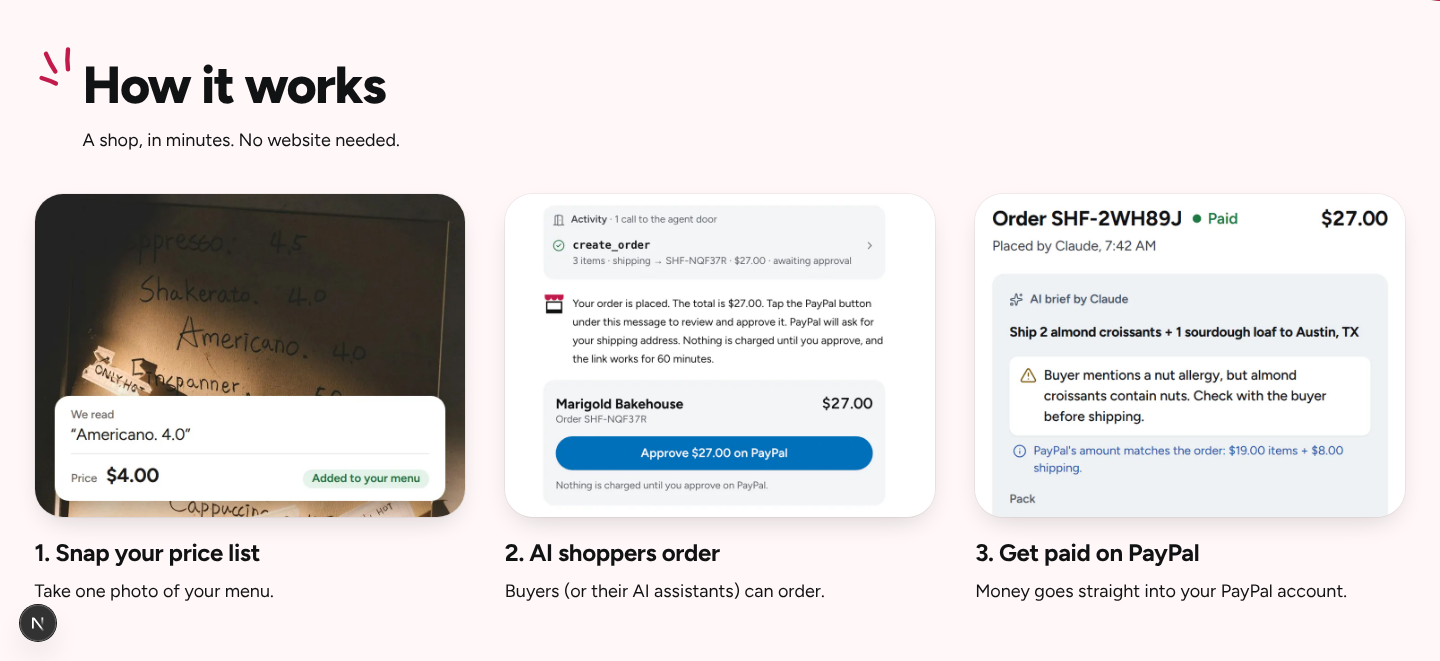
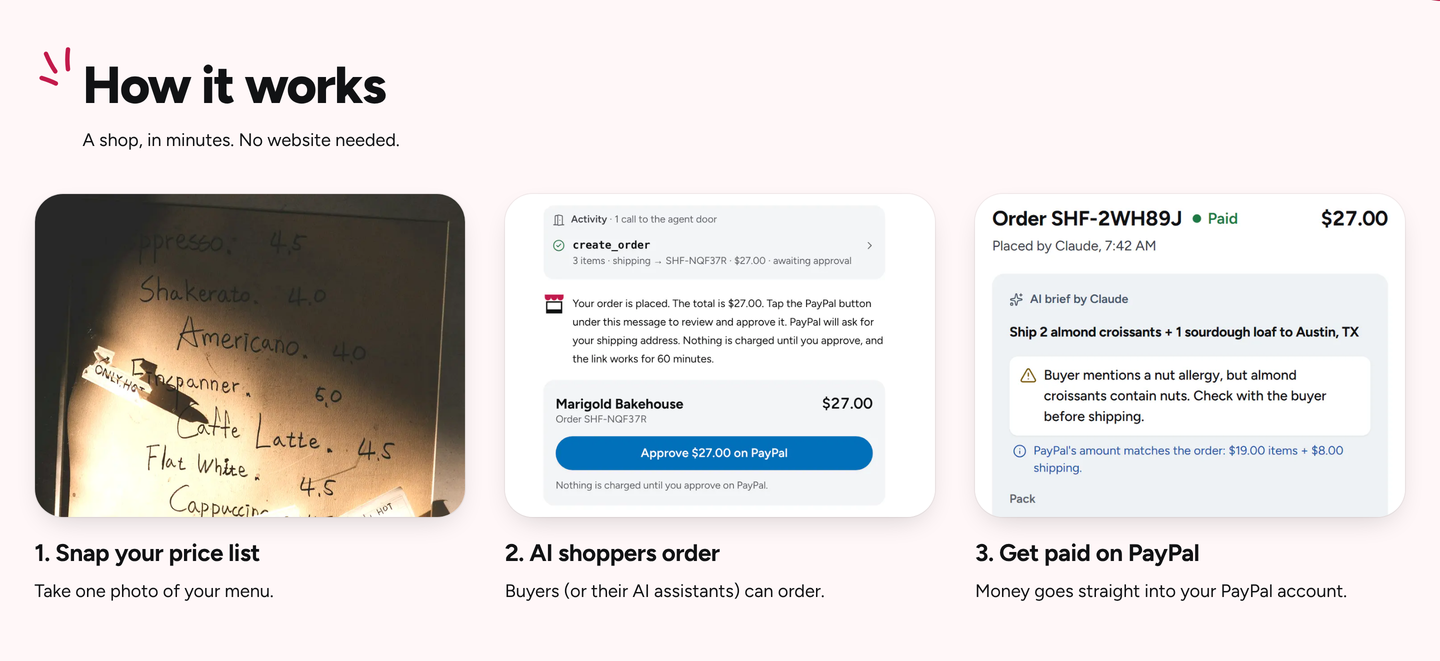
Home: step 1 shows the paper menu photo alone (no invented app card), brighter crops, hero photo loads eagerly

diff --git a/src/components/landing/HowItWorks.tsx b/src/components/landing/HowItWorks.tsx
@@ -4,16 +4,17 @@ import { TextLink } from '@/components/ui/text-link';
 import { AccentMarks } from './art';
 
 /**
- * Each step shows Shelfie itself: one focal region of the real app on the demo shop, cropped about 480 CSS px wide
- * so its text stays readable (960×720 WebP in public/landing/, made at device scale 2; see docs/ASSETS.md). Step 1 is
- * a real photo of a handwritten price list under a card of Shelfie's reading. Same 4:3 frame for all three.
+ * Step 1 is the seller's side of the camera: a real photo of a handwritten price list (Unsplash License; see
+ * docs/ASSETS.md), with nothing drawn over it. Steps 2 and 3 show Shelfie itself: one focal region of the real app on
+ * the demo shop, cropped about 480 CSS px wide so its text stays readable. All are 960×720 WebP in public/landing/,
+ * in the same 4:3 frame.
  */
 const STEPS: { title: string; body: string; image: string; alt: string }[] = [
   {
     title: '1. Snap your price list',
     body: 'Take one photo of your menu.',
     image: '/landing/step-read.webp',
-    alt: 'A handwritten café price list on paper, and Shelfie’s reading of one line, “Americano. 4.0”: price $4.00, added to the menu.',
+    alt: 'A handwritten café price list on paper: Espresso 4.5, Shakerato 4.0, Americano 4.0, Caffe Latte 4.5.',
   },
   {
     title: '2. AI shoppers order',

diff --git a/src/components/landing/HeroChain.tsx b/src/components/landing/HeroChain.tsx
@@ -82,7 +82,7 @@ function PaperCard() {
       <AccentMarks className="absolute -top-7 right-3 z-10 size-8 -scale-x-100 text-accent" />
       <div className="rounded-sm bg-surface p-1.5 shadow-lg">
         <div className="relative aspect-[3/4] overflow-hidden rounded-xs bg-paper">
-          <Image src={PAPER_MENU} alt="" fill unoptimized className="object-cover" />
+          <Image src={PAPER_MENU} alt="" fill unoptimized loading="eager" className="object-cover" />
         </div>
       </div>
     </div>
@@ -183,7 +183,7 @@ const TILE = 'relative flex aspect-[4/5] flex-col items-center justify-center ov
 const PHONE_TILES = [
   <div key="paper" className="-rotate-3 rounded-xs bg-surface p-1 shadow-md">
     <div className="relative aspect-[4/5] overflow-hidden rounded-xs bg-paper">
-      <Image src={PAPER_MENU} alt="" fill unoptimized className="object-cover" />
+      <Image src={PAPER_MENU} alt="" fill unoptimized loading="eager" className="object-cover" />
     </div>
   </div>,
   <div key="shop" className={cn(TILE, 'justify-start gap-0.5 p-1')}>

diff --git a/docs/DESIGN.md b/docs/DESIGN.md
@@ -225,12 +225,12 @@ Built from the owner's reference image (run 6), and the one place the rules abov
 
 - **The header (`BandHeader`):** a 64 px bar (56 px on phones) in the bands' `max-w-site` and gutter; logo 28 px; How it works, FAQ and Help at 15 px medium ink with a short underline on hover and a full accent underline for the section in view (`aria-current`); Log in as text and a 40 px pomegranate "Add your shop", the only filled element. Once the page scrolls it turns translucent near-white with a blur, a hairline and a soft shadow (an opacity cross-fade). Phones: logo, Log in, a compact Add your shop and a menu button whose lines fold into a cross; the menu is a full-width panel with large rows and a full-width Add your shop, scroll-locked, closed by Esc, a link or a press outside, focus moved in and back.
 - **Bands, each a different place:** the sticky near-white header (`BandHeader`), the hero photo with its pomegranate wave, the blush How it works band, the solid pomegranate FAQ with deeper rows, the cocoa photo band, the charcoal footer. Every band uses one padding (`py-band`) and one gutter (`px-band-gutter`) inside `max-w-site`.
-- **Palette:** blush `#fffcfd`, `#fff7f8`, `#feeaed` and `#ffced6` are Radix Colors Ruby 1, 2, 3 and 5. Pomegranate 600 to 800 match Tailwind rose 700 to 900 in lightness. Charcoal `#292524` and its soft text `#d6d3d1` are Tailwind stone 800 and 300. Cocoa is `#4a2d1f`, and the paper menu `#f6ecd9`.
+- **Palette:** blush `#fffcfd`, `#fff7f8`, `#feeaed` and `#ffced6` are Radix Colors Ruby 1, 2, 3 and 5. Pomegranate 600 to 800 match Tailwind rose 700 to 900 in lightness. Charcoal `#292524` and its soft text `#d6d3d1` are Tailwind stone 800 and 300. Cocoa is `#4a2d1f`. `paper` (`#f6ecd9`) is only the placeholder behind the paper menu photo while it loads.
 - **Text over photos** is checked from the pixels behind it (axe can't read images): the hero's veil and the closing band's fade exist for this, so re-measure after changing either or the photo.
 - **Motion:** the hero chain (`landing/HeroChain.tsx`) lands in turn when it comes into view, replays when the visitor returns, and never loops; under reduced motion it shows at once. Every beat carries `data-entrance` and `data-chain-beat`.
 - **Type:** body at least 16 px on phones and 18 px from 1280 px, meta at least 14 px. Figtree is the only typeface.
-- **The paper menu is a real photograph:** the hero chain's first card and How it works step 1 show a real handwritten café price list (`public/landing/paper-menu.webp`, credited in `docs/ASSETS.md`), never a drawn or generated menu. The card is the photo in a 6 px white mat (4 px on the phone tile), tilted -3°, with the accent marks above it; its caption speaks of "your menu" and never names the photo as a seller's. Step 1 lays a white "We read" card (Shelfie's reading of one line) over the lower part of the same photo.
-- **Icons and step images:** How it works shows no icons: each step has one focal region of Shelfie itself, cropped about 480 CSS px wide so its text reads at every width (`public/landing/step-*.webp`, 960×720, 4:3, rounded `rounded-2xl` frame with `shadow-md`, lazy `<img>` with width and height), stacked above its text up to `lg` (at most `max-w-md`) and in three columns from `lg`, since three columns at `md` shrink the frames below the phone's. Re-shoot them from the app if those screens change. `landing/art.tsx` keeps the accent marks and the hero's assistant mark: a neutral speech bubble and spark, never an AI company's mark; PayPal appears as blue text.
+- **The paper menu is a real photograph:** the hero chain's first card and How it works step 1 show a real handwritten café price list (`public/landing/paper-menu.webp`, credited in `docs/ASSETS.md`), never a drawn or generated menu. The card is the photo in a 6 px white mat (4 px on the phone tile), tilted -3°, with the accent marks above it; its caption speaks of "your menu" and never names the photo as a seller's. Step 1 is the same photo alone (`step-read.webp`), with no drawn UI over it: no invented app card. The hero photo loads eagerly (it is above the fold).
+- **Icons and step images:** How it works shows no icons: step 1 is the real paper menu photo, and steps 2 and 3 each have one focal region of Shelfie itself, cropped about 480 CSS px wide so its text reads at every width (`public/landing/step-*.webp`, 960×720, 4:3, rounded `rounded-2xl` frame with `shadow-md`, lazy `<img>` with width and height), stacked above its text up to `lg` (at most `max-w-md`) and in three columns from `lg`, since three columns at `md` shrink the frames below the phone's. Re-shoot them from the app if those screens change. `landing/art.tsx` keeps the accent marks and the hero's assistant mark: a neutral speech bubble and spark, never an AI company's mark; PayPal appears as blue text.
 - **Sound switch:** the footer's control reads `Sound on` / `Sound off` beside its speaker icon, in an outlined 44 px pill; its accessible name is `Sound` with `aria-pressed`.
 - **Home chat:** a round pomegranate launcher at the bottom right (above `env(safe-area-inset-bottom)`) with Shelfie's own bot drawing (`landing/BotMark.tsx`: white head, ink eyes, blush cheeks and antenna; never a stock icon or an AI company's mark) and an ink unread dot until first opened. It opens the real buyer console for the example shop: a 380 x 560 panel anchored above it from 1024 px (auto-opens once per session after 4 s, never taking focus, and only on screens at least 700 px tall; its height stops short of the sticky header), a bottom sheet below 1024 px, where a speech bubble ("Hi! Want to try ordering?") replaces the auto-open. The footer gains bottom padding on the home page so its last row (the Sound switch) ends above the launcher. Entrances are CSS opacity/transform only.
 

diff --git a/docs/ASSETS.md b/docs/ASSETS.md
@@ -261,7 +261,7 @@ All under the [Pexels License](https://www.pexels.com/license/), resized and com
 
 ## How it works step images (`public/landing/`)
 
-Our own screenshots of Shelfie, not third-party assets, except the photo in step 1: `step-read.webp` (the handwritten price list photo below, with a white "We read" card in Figtree showing Shelfie's reading of its Americano line, $4.00, rendered from HTML with Playwright at device scale 2), `step-order.webp` (the demo shop's assistant panel: its create_order call, reply and Approve on PayPal card, replayed turns; the "Tell me once you've approved" line is cut out) and `step-paid.webp` (the seller's paid order header and its AI brief). Taken with Playwright at device scale 2 and a 500 px viewport on the e2e database (seeded demo shop, labelled fixture orders, fake PayPal ids), cropped to one focal region of about 480 CSS px and saved as 960×720 WebP (q80) with sharp. Food photos inside them are the demo shop's (credited above). No owner links, tokens or emails are in frame.
+Our own screenshots of Shelfie, not third-party assets, except step 1: `step-read.webp` is the handwritten price list photo below, alone. Then `step-order.webp` (the demo shop's assistant panel: its create_order call, reply and Approve on PayPal card, replayed turns; the "Tell me once you've approved" line is cut out) and `step-paid.webp` (the seller's paid order header and its AI brief). Taken with Playwright at device scale 2 and a 500 px viewport on the e2e database (seeded demo shop, labelled fixture orders, fake PayPal ids), cropped to one focal region of about 480 CSS px and saved as 960×720 WebP (q80) with sharp. Food photos inside them are the demo shop's (credited above). No owner links, tokens or emails are in frame.
 
 ## Handwritten price list photo (`public/landing/paper-menu.webp`, step 1, video)
 
@@ -269,7 +269,7 @@ A real photograph, chosen in run 8 over five other Pexels/Unsplash candidates (`
 
 | File | Shows | Source | Processing | Licence |
 |---|---|---|---|---|
-| `public/landing/paper-menu.webp` (480×640) | A handwritten coffee price list in black ink on cream paper (Americano 4.0, Caffe Latte 4.5, ...) | Photo by Bundo Kim on Unsplash, https://unsplash.com/photos/white-printer-paper-CWxfAzPs2T8 (file `images.unsplash.com/photo-1557633405-a29f480936d5`) | Cropped 3:4 to the right-hand sheet, CLAHE to even out the hard window light, brightness +15%, WebP q74 | [Unsplash License](https://unsplash.com/license) |
-| `public/landing/step-read.webp` (960×720) | The same sheet, under Shelfie's "We read" card | Same photo | Cropped 4:3, same toning, card rendered on top, WebP q80 | Unsplash License (photo); the card is ours |
+| `public/landing/paper-menu.webp` (480×640) | A handwritten coffee price list in black ink on cream paper (Americano 4.0, Caffe Latte 4.5, ...) | Photo by Bundo Kim on Unsplash, https://unsplash.com/photos/white-printer-paper-CWxfAzPs2T8 (file `images.unsplash.com/photo-1557633405-a29f480936d5`) | Cropped 3:4 to the right-hand sheet, CLAHE to even out the hard window light, brightness +35%, WebP q74 | [Unsplash License](https://unsplash.com/license) |
+| `public/landing/step-read.webp` (960×720) | The same sheet, wider | Same photo | Cropped 4:3, same toning, nothing drawn on top, WebP q74 | Unsplash License |
 | `video/project/assets/paper-menu.jpg` (1920×1080) | Both sheets of the same list, full frame for the demo video | Same photo | Cropped 16:9, gentler CLAHE, JPEG q84 | Unsplash License |
 

diff --git a/docs/judge/menu-photo-r8.md b/docs/judge/menu-photo-r8.md
@@ -15,4 +15,6 @@ Searched: Pexels "handwritten menu", "handwritten price list", "paper menu", "ha
 
 Pexels photographer names for 2 and 4 to 6 are as shown on their pages' download names; only the pick's licence page was checked in full.
 
-**Pick: 1 (Bundo Kim).** It is the closest to the reference's qualities: a casual, real, hand-written list in black ink on cream paper with a price beside every item, in English, with nothing that names the café. It is shot at an angle in a dark room rather than from above, and it has no doodles; the hard window light is evened out with CLAHE so the ink reads at the hero card's ~230 px. Crops: 3:4 on the right-hand sheet for the hero card (`public/landing/paper-menu.webp`), 4:3 under Shelfie's "We read" card for step 1 (`public/landing/step-read.webp`), 16:9 full frame for the video (`video/project/assets/paper-menu.jpg`). Credits in `docs/ASSETS.md`.
+**Pick: 1 (Bundo Kim).** It is the closest to the reference's qualities: a casual, real, hand-written list in black ink on cream paper with a price beside every item, in English, with nothing that names the café. It is shot at an angle in a dark room rather than from above, and it has no doodles; the hard window light is evened out with CLAHE and brightness +35% so the ink reads at the hero card's ~230 px. Crops: 3:4 on the right-hand sheet for the hero card (`public/landing/paper-menu.webp`), 4:3 for step 1, the photo alone (fix round: the drawn "We read" card was removed because it was invented UI, not the app's own reading) (`public/landing/step-read.webp`), 16:9 full frame for the video (`video/project/assets/paper-menu.jpg`). Credits in `docs/ASSETS.md`.
+
+**Open for the owner.** This photo is a sheet framed on a wall, shot at an angle in hard light, not paper from above on a dark table with doodles like the reference, and it reads darker than the white cards beside it. A fix-round web search (Pexels and Unsplash, "handwritten menu paper prices", "handwritten menu on paper cafe") found nothing closer; a better match needs either a new licensed find or a photo the owner takes of a real hand-written menu (then rerun the crops with `/tmp/r8fix/assets.mjs`-style sharp steps: 3:4 480×640 and 4:3 960×720 WebP).

diff --git a/docs/DECISIONS.md b/docs/DECISIONS.md
@@ -335,3 +335,5 @@ Brainstorming questions were answered by the coordinator from CLAUDE.md, docs/ID
 ## Run 8 (10 Nov 2026)
 
 - **The hero's first card and How it works step 1 use a real photo of a handwritten café price list (Bundo Kim, Unsplash License), not a drawn or generated menu.** Reason: the owner asked for "a real menu written on paper"; of six licensed candidates it is the only one with English items and prices beside them in black ink on cream paper that stays legible at card size (comparison in `docs/judge/menu-photo-r8.md`).
+- How it works step 1 shows the paper menu photo alone, with no drawn "We read" card over it. Reason: the card was invented UI rather than Shelfie's own screen, which broke the rule that the steps show the real app; the photo alone says "snap your price list" honestly.
+- The hero's paper menu photo loads eagerly, and both crops are 35% brighter (was 15%). Reason: it is above the fold on every width, and the brighter tone sits better beside the white cards.
